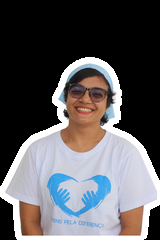
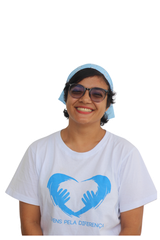
Adiciona seção Organograma e corrige fotos com fundo preto
- Nova seção "Organograma" (Direção, Setores e Equipes com
  coordenadores) entre Equipes e Jornada, com ícones extraídos
  do manual e link no menu.
- Corrige logo, foto do hero, foto do grupo e os 3 retratos da
  diretoria: estavam sem canal alfa (extraídos sem aplicar a
  soft mask do PDF), o que fazia o fundo aparecer preto sólido
  em vez de transparente. Re-extraídos com transparência real.
- Ajusta o frame da foto do hero para um fundo em gradiente
  navy/cyan por trás do recorte, já que a imagem agora é
  realmente transparente.

Claude-Session: https://claude.ai/code/session_01XySikjvPzHfWhtLyVbASzt

diff --git a/jpd/index.html b/jpd/index.html
@@ -105,8 +105,8 @@
   .hero-stats b{display:block;font-family:'Baloo 2',sans-serif;font-weight:800;font-size:clamp(1.5rem,2.4vw,2rem);color:var(--cyan-deep);line-height:1;}
   .hero-stats span{font-size:10.5px;font-weight:800;letter-spacing:.05em;text-transform:uppercase;color:rgba(10,36,48,.55);}
   .hero-visual{position:relative;}
-  .hero-photo-frame{position:relative;border-radius:32px;overflow:hidden;aspect-ratio:4/4.6;box-shadow:0 34px 70px -30px rgba(10,51,69,.45);}
-  .hero-photo-frame img{width:100%;height:100%;object-fit:cover;object-position:top;}
+  .hero-photo-frame{position:relative;border-radius:32px;overflow:hidden;aspect-ratio:4/4.6;box-shadow:0 34px 70px -30px rgba(10,51,69,.45);background:linear-gradient(165deg,var(--cyan-deep),var(--navy));}
+  .hero-photo-frame img{display:block;width:auto;height:96%;max-width:92%;object-fit:contain;margin:4% auto 0;}
   .hero-photo-frame::after{content:"";position:absolute;inset:0;background:linear-gradient(180deg,rgba(11,36,48,0) 55%,rgba(6,28,38,.55) 100%);}
   .hero-float-card{position:absolute;left:-6%;bottom:8%;background:#fff;border-radius:18px;padding:14px 18px;box-shadow:var(--shadow);display:flex;align-items:center;gap:12px;max-width:230px;animation:floaty2 9s ease-in-out infinite;}
   .hero-float-card .ic{width:38px;height:38px;border-radius:50%;background:var(--paper-2);display:flex;align-items:center;justify-content:center;flex:none;animation:pulseRing 2.6s ease-in-out infinite;}
@@ -191,6 +191,24 @@
   .sector-card h3{color:#fff;font-size:1.1rem;}
   .sector-card p{font-size:.86rem;color:rgba(255,255,255,.85);}
 
+  /* ORGANOGRAMA */
+  .org-direcao{display:flex;flex-wrap:wrap;justify-content:center;gap:clamp(24px,5vw,64px);margin-bottom:clamp(40px,6vw,64px);}
+  .org-lead{display:flex;flex-direction:column;align-items:center;text-align:center;gap:8px;}
+  .org-lead img{width:92px;height:92px;border-radius:50%;object-fit:cover;object-position:top;border:3px solid var(--cyan);box-shadow:var(--shadow);}
+  .org-lead b{font-family:'Baloo 2',sans-serif;font-size:1rem;color:var(--navy);}
+  .org-lead span{font-family:'Baloo 2',sans-serif;font-size:11.5px;font-weight:700;letter-spacing:.04em;text-transform:uppercase;color:var(--cyan-deep);}
+  .org-columns{display:grid;grid-template-columns:1fr 1fr;gap:clamp(24px,4vw,40px);}
+  .org-col-label{display:block;font-family:'Baloo 2',sans-serif;font-weight:700;font-size:13px;letter-spacing:.08em;text-transform:uppercase;color:var(--navy);margin-bottom:16px;padding-bottom:10px;border-bottom:2px solid rgba(10,51,69,.12);}
+  .org-grid{display:grid;grid-template-columns:1fr 1fr;gap:14px;}
+  .org-card{background:#fff;border-radius:18px;padding:18px;box-shadow:var(--shadow);display:flex;flex-direction:column;align-items:flex-start;gap:6px;}
+  .org-card .org-icon{width:56px;height:56px;object-fit:contain;margin-bottom:4px;}
+  .org-card h4{font-size:.98rem;color:var(--navy);}
+  .org-coords{display:flex;flex-direction:column;gap:2px;margin-top:2px;}
+  .org-coords span{font-size:.8rem;font-weight:700;color:rgba(10,36,48,.78);}
+  .org-coords em{font-style:normal;font-weight:600;font-size:.7rem;color:var(--cyan-deep);margin-left:4px;}
+  .org-card p{font-size:.76rem;color:rgba(10,36,48,.55);margin-top:4px;}
+  .org-note{margin-top:28px;font-size:.8rem;color:rgba(10,36,48,.5);max-width:70ch;}
+
   /* JORNADA */
   .integr-grid{display:grid;grid-template-columns:repeat(auto-fit,minmax(260px,1fr));gap:18px;margin-bottom:44px;}
   .integr-card{border-radius:22px;padding:26px;background:#fff;box-shadow:var(--shadow);}
@@ -274,10 +292,12 @@
     .historia-grid{grid-template-columns:1fr;}
     .parceiro-grid{grid-template-columns:1fr;}
     .parceiro-photo{max-width:420px;margin:0 auto;}
+    .org-columns{grid-template-columns:1fr;}
   }
   @media (max-width:560px){
     .hero-stats{grid-template-columns:1fr 1fr;}
     .parceiro-benefits{grid-template-columns:1fr;}
+    .org-grid{grid-template-columns:1fr;}
   }
 </style>
 </head>
@@ -295,6 +315,7 @@
       <a href="#o-que-fazemos">O que fazemos</a>
       <a href="#direcao">Direção</a>
       <a href="#equipes">Equipes</a>
+      <a href="#organograma">Organograma</a>
       <a href="#jornada">Jornada</a>
       <a href="#beneficios">Benefícios</a>
       <a href="#parceiro">Seja parceiro</a>
@@ -314,6 +335,7 @@
   <a href="#o-que-fazemos">O que fazemos</a>
   <a href="#direcao">Direção</a>
   <a href="#equipes">Equipes &amp; setores</a>
+  <a href="#organograma">Organograma</a>
   <a href="#jornada">Jornada do voluntário</a>
   <a href="#beneficios">Benefícios</a>
   <a href="#parceiro">Seja parceiro</a>
@@ -493,6 +515,87 @@
           <div class="sector-card"><span class="ic">🎯</span><h3>Planejamento</h3><p>Marca, gerencia e divulga as ações; capacita as coordenações.</p></div>
         </div>
       </div>
+    </div>
+  </section>
+
+  <!-- ORGANOGRAMA -->
+  <section id="organograma" class="tint">
+    <div class="wrap">
+      <div class="sec-head reveal">
+        <div>
+          <p class="eyebrow">Membros Auxiliares</p>
+          <h2>Organograma</h2>
+        </div>
+        <p class="desc">A Direção conta com o auxílio de voluntários que lideram as equipes e os setores da ONG. Todas as equipes têm dois coordenadores, os setores um — eles são a linha de frente do JPD.</p>
+      </div>
+
+      <div class="org-direcao reveal">
+        <div class="org-lead"><img src="assets/diretor-ester.png" alt="Ester Farias"><b>Ester Farias</b><span>Presidente</span></div>
+        <div class="org-lead"><img src="assets/diretor-wagner.png" alt="Wagner Lindemberg"><b>Wagner Lindemberg</b><span>Vice-presidente</span></div>
+        <div class="org-lead"><img src="assets/diretor-talinna.png" alt="Talinna Menezes"><b>Talinna Menezes</b><span>Coord. Geral</span></div>
+      </div>
+
+      <div class="org-columns">
+        <div class="org-col reveal">
+          <span class="org-col-label">Setores</span>
+          <div class="org-grid">
+            <div class="org-card">
+              <img src="assets/org/icon-planejamento.png" alt="" class="org-icon">
+              <h4>Planejamento</h4>
+              <div class="org-coords"><span>Larissa Santana <em>Coord. PLNJ</em></span><span>Amanda Martins <em>Coord. PLNJ</em></span></div>
+              <p>Pré-ação · Durante a ação · Pós ação</p>
+            </div>
+            <div class="org-card">
+              <img src="assets/org/icon-comunicacao.png" alt="" class="org-icon">
+              <h4>Comunicação</h4>
+              <div class="org-coords"><span>José Neto <em>Coord. CMNC</em></span><span>Larissa Casemiro <em>Coord. CMNC</em></span></div>
+              <p>Social Media · Videomakers · Design · Campanhas</p>
+            </div>
+            <div class="org-card">
+              <img src="assets/org/icon-endomarketing.png" alt="" class="org-icon">
+              <h4>Endomarketing</h4>
+              <div class="org-coords"><span>Gabriel Aquiles <em>Coord. ENDO</em></span><span>Giselle Rocha <em>Coord. ENDO</em></span></div>
+              <p>Projetos de engajamento diversos</p>
+            </div>
+            <div class="org-card">
+              <img src="assets/org/icon-gestao-recursos.png" alt="" class="org-icon">
+              <h4>Gestão de Recursos</h4>
+              <div class="org-coords"><span>John Ferreira <em>Coord. GR</em></span><span>Ruth da Silva <em>Coord. GR</em></span></div>
+              <p>Compliance · Jurídico · Comercial · Financeiro</p>
+            </div>
+          </div>
+        </div>
+        <div class="org-col reveal">
+          <span class="org-col-label">Equipes</span>
+          <div class="org-grid">
+            <div class="org-card">
+              <img src="assets/org/icon-salao-beleza.png" alt="" class="org-icon">
+              <h4>Salão de Beleza</h4>
+              <div class="org-coords"><span>Lânia Silva <em>Coord. SB</em></span><span>Ana Júlya Pinheiro <em>Coord. SB</em></span></div>
+              <p>Atividades de beleza e autoestima</p>
+            </div>
+            <div class="org-card">
+              <img src="assets/org/icon-brinquedoteca.png" alt="" class="org-icon">
+              <h4>Brinquedoteca</h4>
+              <div class="org-coords"><span>Yago Vieira <em>Coord. BQ</em></span><span>Letícia Narayanah <em>Coord. BQ</em></span></div>
+              <p>Atividades lúdicas e de aprendizado</p>
+            </div>
+            <div class="org-card">
+              <img src="assets/org/icon-brincadeiras-livres.png" alt="" class="org-icon">
+              <h4>Brincadeiras Livres</h4>
+              <div class="org-coords"><span>Cleiton Xavier <em>Coord. BL</em></span><span>Manuela Alcântara <em>Coord. BL</em></span></div>
+              <p>Atividades esportivas e de energia</p>
+            </div>
+            <div class="org-card">
+              <img src="assets/org/icon-pintura.png" alt="" class="org-icon">
+              <h4>Pintura</h4>
+              <div class="org-coords"><span>Mabi Menezes <em>Coord. PR</em></span><span>Cecy <em>Coord. PR</em></span></div>
+              <p>Atividades de pintura de rosto e corpo</p>
+            </div>
+          </div>
+        </div>
+      </div>
+      <p class="org-note">Os nomes de coordenadores de equipe podem variar entre esta página e a seção "Equipes" quando houver troca recente de coordenação — sempre confira o grupo oficial para a informação mais atual.</p>
     </div>
   </section>
 
